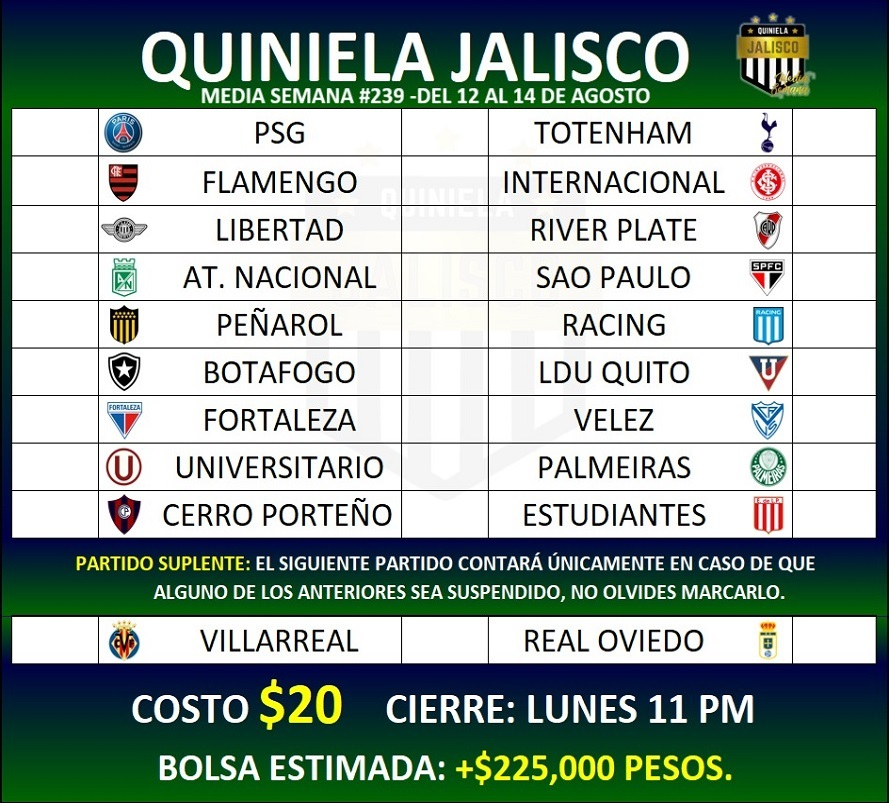
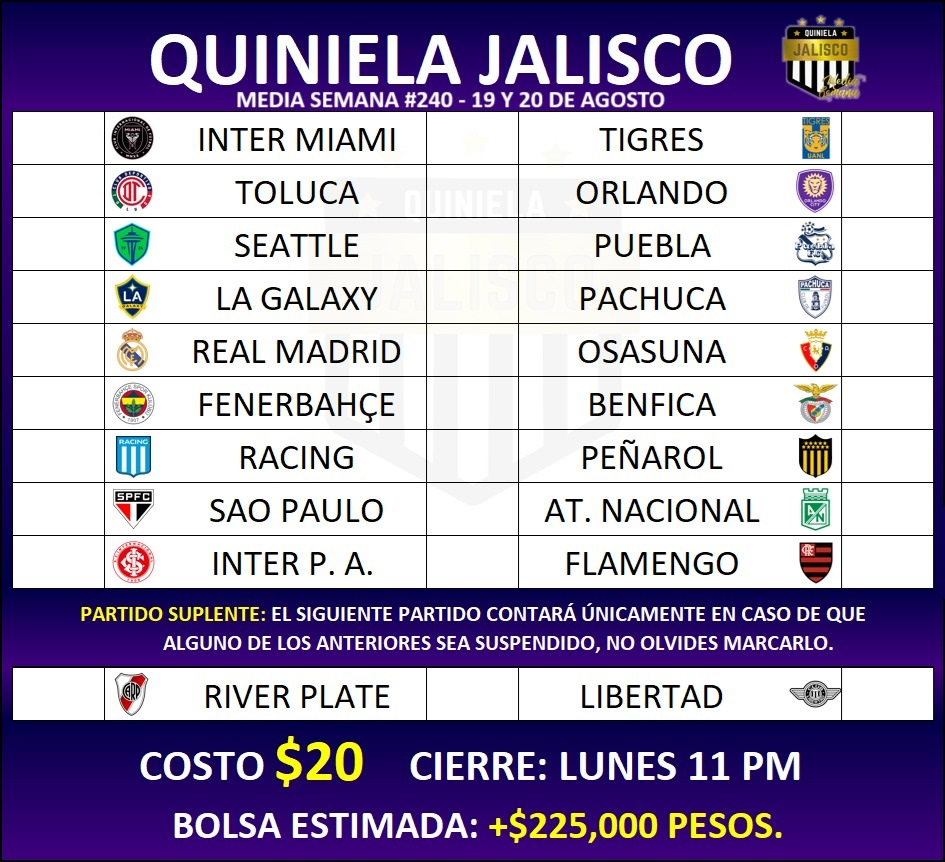
Media Semana #230

diff --git a/MediaSemana/stylesmSusp.css b/MediaSemana/stylesmSusp.css
@@ -36,7 +36,7 @@ body{
 .aux{
     background-color: rgba(165, 42, 42, 0);
     width: 100%;
-    height: 12.1%;
+    height: 11.8%;
     padding-top: 2.5%;
 }
 
@@ -73,9 +73,9 @@ body{
 
 .partido{
     display: flex;
-    height: 5.4%;
+    height: 5.6%;
     width: 100%;
-    padding: 0 1.35% 0 1.35%;
+    padding: 0 1.2% 0 1.35%;
 }
 
 .partido .opcion-active{
@@ -94,8 +94,8 @@ body{
     margin-top: 9%;
     border: solid 1px black;
     border-radius: 0 0 14px 14px;
-    background: -webkit-linear-gradient(0.49turn, rgb(0,50,35) -7%, rgb(0 6 82) 80%);
-    background: linear-gradient(0.49turn, rgb(0,50,35) -7%, rgb(0 6 82) 80%);
+    background: -webkit-linear-gradient(0.49turn, rgb(32 0 99) -7%, rgb(0 6 82) 80%);
+    background: linear-gradient(0.49turn, rgb(32 0 99) -7%, rgb(0 6 82) 80%);
 }
 
 .text-lg{
